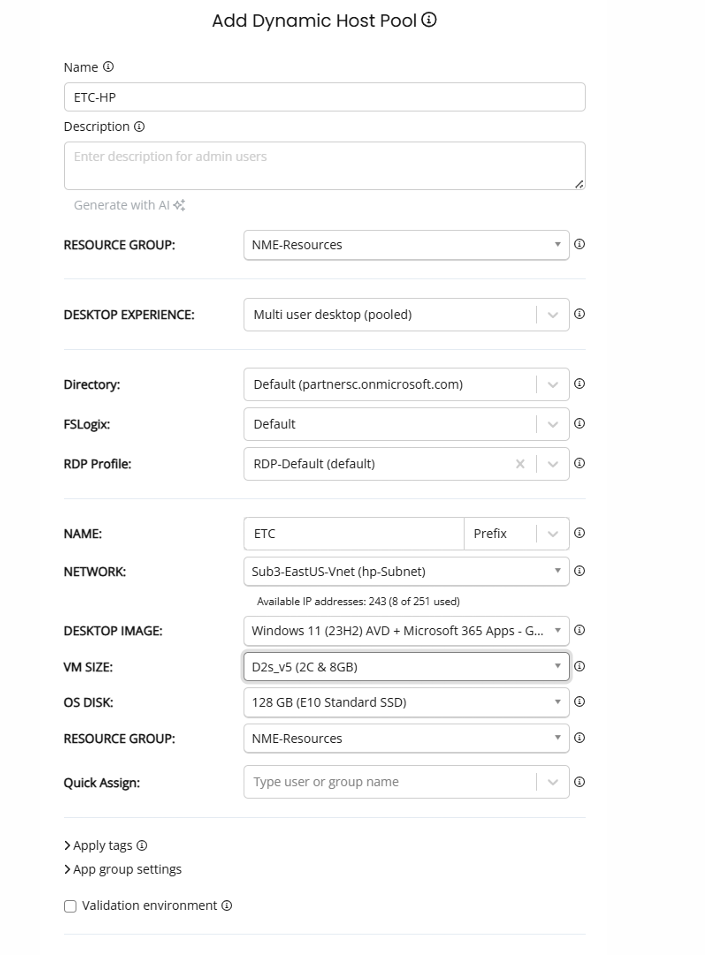
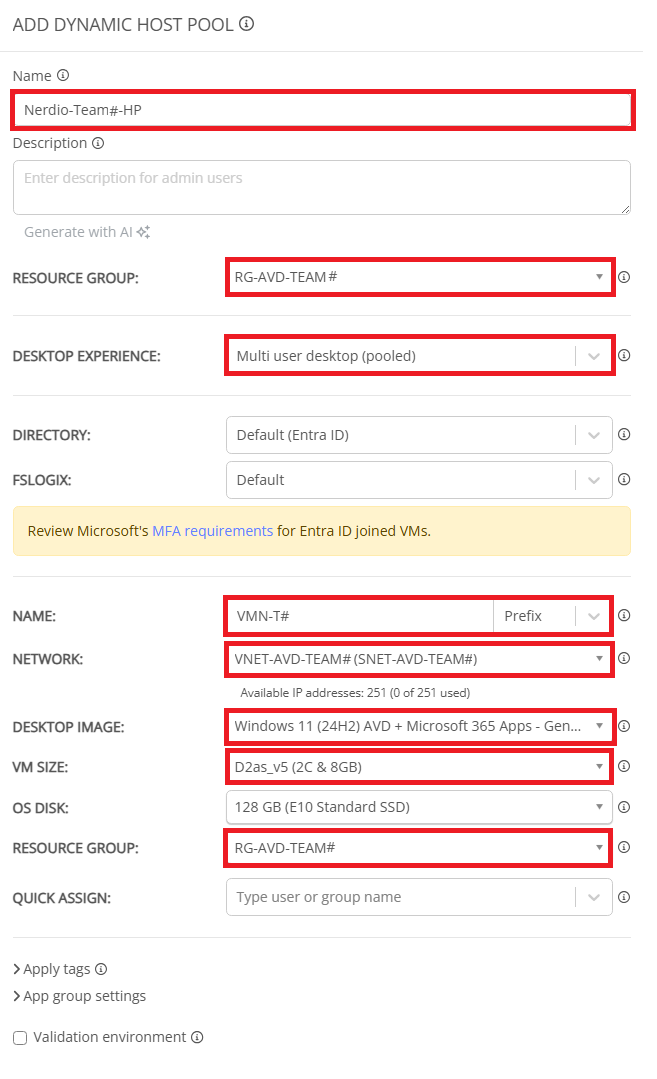
Commit Nerdio

diff --git a/Nerdio/01-Enterprise-Foundations-Lab.md b/Nerdio/01-Enterprise-Foundations-Lab.md
@@ -11,7 +11,7 @@
 | Name(internal only) | **Insira um nome. Ex: WS-Nerdio=TEAM#** |
 | Friendly Name (visible to users) | **Insira um nome. Ex: Nerdio-Team#-Workspace** |
 | Description | Deixe em branco. |
-| Resource Group | Deixe como padrão. |
+| Resource Group | **Escolha o Resource Group conforme seu time. Ex: RG-AVD-TEAM#** |
 | Location | **Selecione East US.** |
 
 **Nota: Lembre-se de trocar o # pelo número do seu time no desafio**
@@ -24,25 +24,27 @@
 
 1. Encontre seu Workspace.
 2. Clique na seta do menu dropdown ao lado de **Workspace** e selecione **Dynamic Host Pools**.
-3. Clique em **New host pool**
+3. Clique em **Add dynamic host pool**
 4. Configure conforme abaixo:
 
 | Propriedade | Valor |
 |---|---|
-| HP Name(internal only) | **Insira um nome exclusivo. Salve o nome para usar depois!** |
+| HP Name(internal only) | **Insira um nome. Ex:Nerdio-TEAM#-HP** |
 | Description | Deixe em branco. |
-| Resource Group | Deixe como padrão. |
+| Resource Group | **Escolha o Resource Group conforme seu time. Ex: RG-AVD-TEAM#** |
 | Desktop Experience | **Multi user desktop (pooled)** |
 | Directory | Deixe como padrão. |
-| FSLogix | Deixe como padrão. |
+| FSLogix | **Deixe como OFF.** |
 | RDP Profile | Deixe como padrão. |
-| Name | **Insira um nome.** |
-| Network | Deixe como padrão. |
-| Desktop Image | **Windows 11 (23H2) AVD + Microsoft 365 Apps - Gen2 (multi-session)** |
-| VM Size | **D2s_v5** |
+| Name | **Insira o prefixo do nome para VM. EX:VMN-T#** |
+| Network |**Escolha a VNET conforme seu time. Ex: VNET-AVD-TEAM#** |
+| Desktop Image | **Windows 11 (24H2) AVD + Microsoft 365 Apps - Gen2 (multi-session)** |
+| VM Size | **D2as_v5** |
 | OS Disk | Deixe como padrão (E10) |
-| Resource Group | Deixe como padrão. |
+| Resource Group | **Escolha o Resource Group conforme seu time. Ex: RG-AVD-TEAM#** |
 | Quick-Assign | Deixe em branco. |
+
+**Nota: Lembre-se de trocar o # pelo número do seu time no desafio**
 
 ![Host Pool Dinâmico](../Images/Nerdio/DynamicHostPool.png)
 
